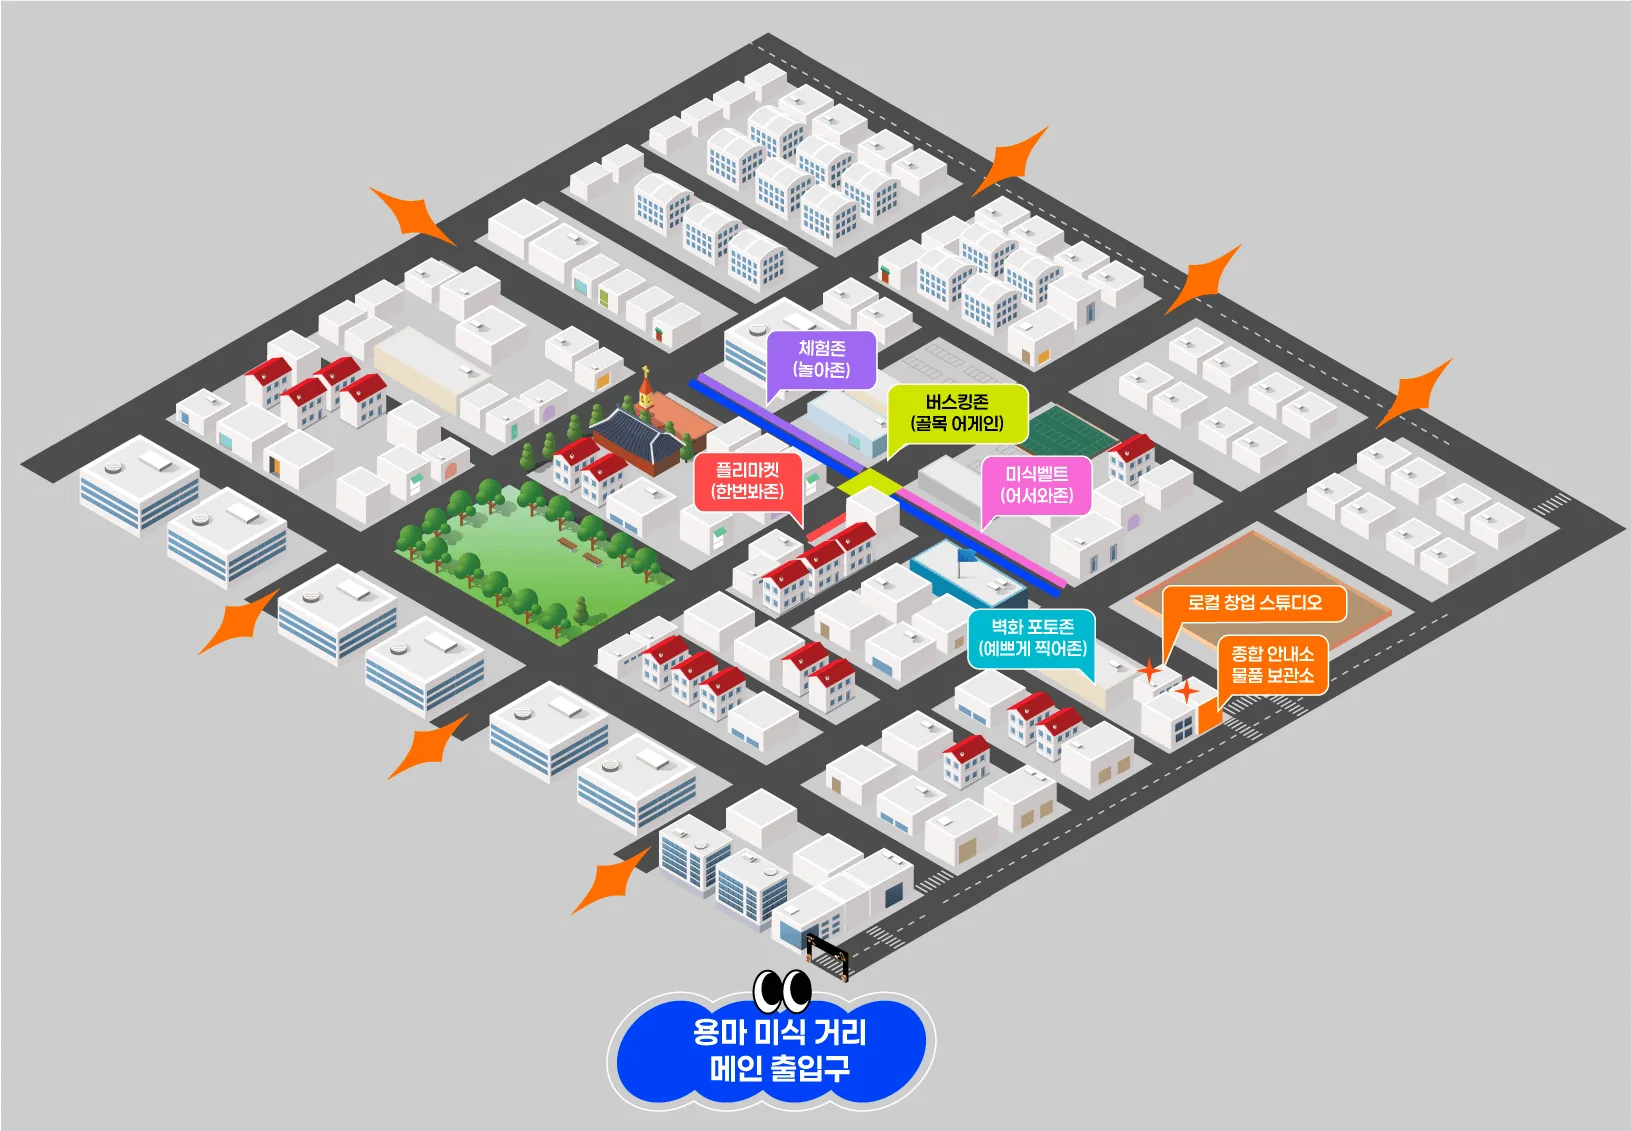
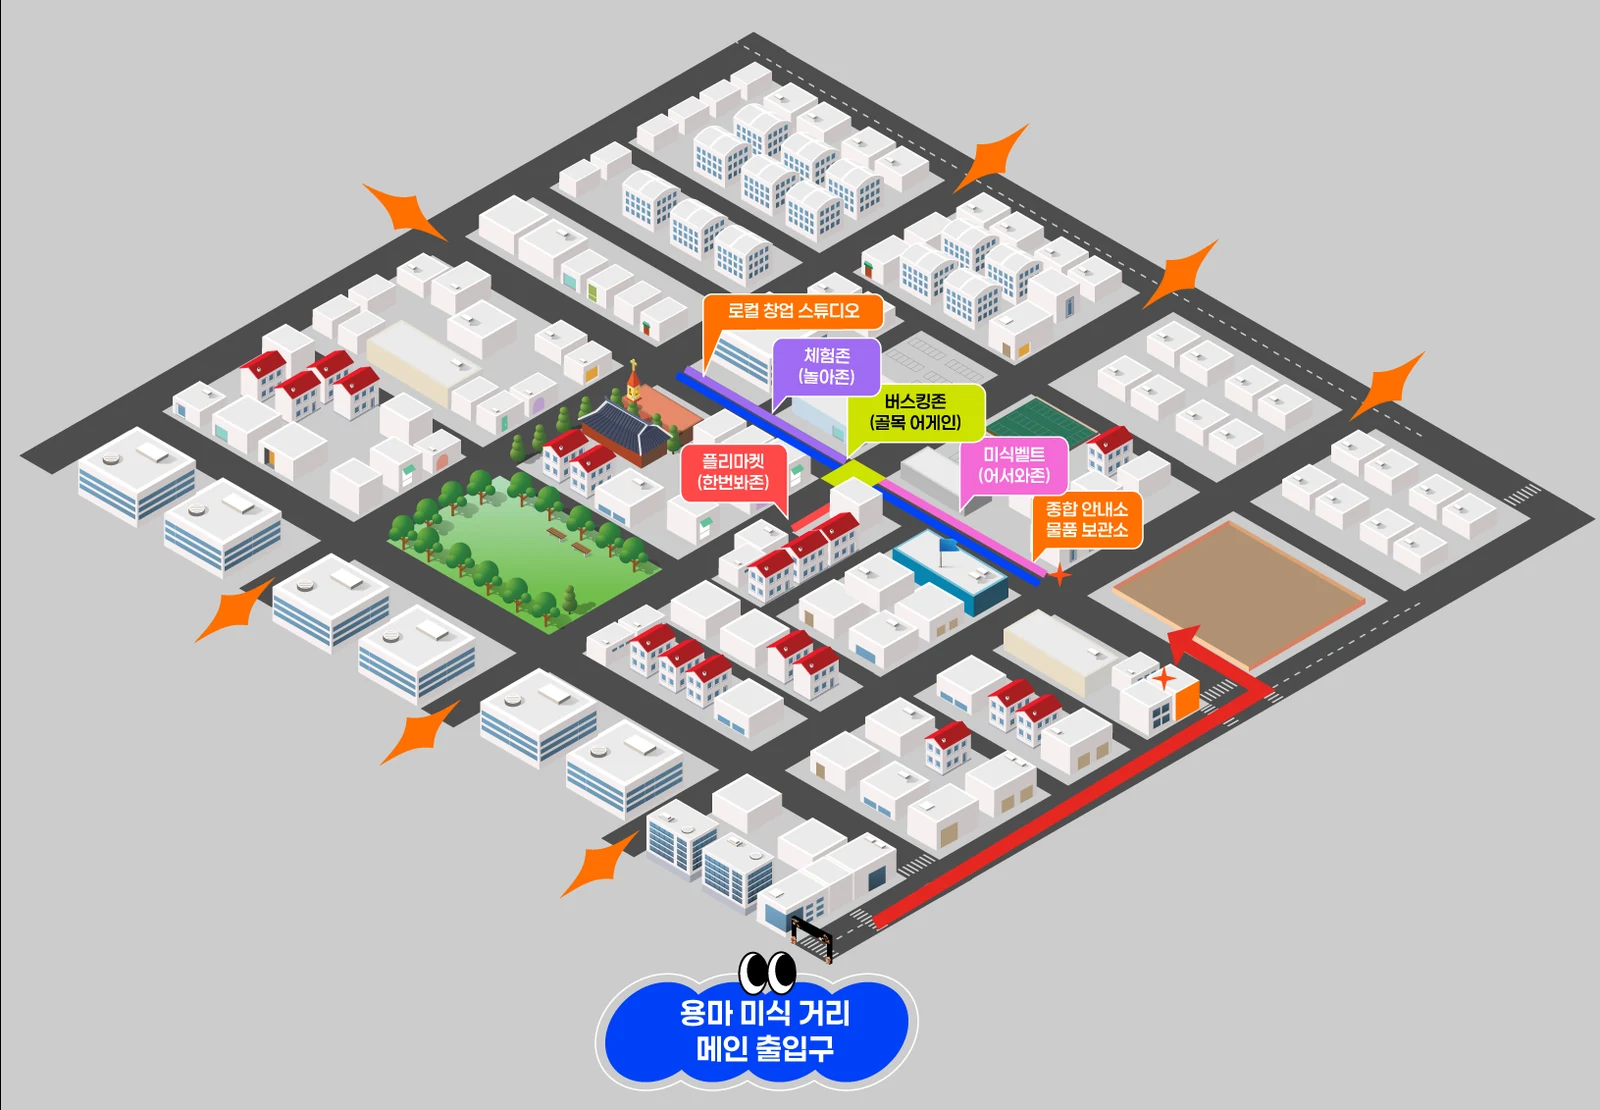
존 배치도를 수정본(사업구성배치도)으로 교체
- assets/img/map-zones.webp 를 새 배치도로 덮어씀 (1600x1110, webp q88)
- 예전 지도는 assets/img/_backup/ 에 날짜를 붙여 보관
- zones.html·index.html 의 img 에 ?v=20261004 를 붙여
  브라우저가 캐시된 옛 지도를 계속 보여 주지 않게 함

Changed region(s): [[0.4375, 0.245, 0.8438, 0.7351], [0.5312, 0.7658, 0.625, 0.8577], [0.625, 0.7351, 0.6562, 0.7658]]

diff --git a/index.html b/index.html
@@ -278,7 +278,8 @@
     </div>
 
     <figure class="figure reveal mt-3" style="margin-bottom:40px">
-      <img src="assets/img/map-zones.webp" alt="용마미식거리 6개 존 배치도 — 복합게이트, 어서와존, 골목어게인, 포토존, 놀아존, 로컬창업 스튜디오 위치" loading="lazy">
+      <!-- ?v= 는 브라우저가 예전 지도를 계속 보여 주지 않게 하려는 표시. 지도를 바꿀 때 날짜도 같이 올린다. -->
+      <img src="assets/img/map-zones.webp?v=20261004" alt="용마미식거리 6개 존 배치도 — 복합게이트, 어서와존, 골목어게인, 포토존, 놀아존, 로컬창업 스튜디오 위치" loading="lazy">
       <figcaption>용마미식거리 존 배치도 · 메인 출입구는 포남동 먹거리촌 방면</figcaption>
     </figure>
 

diff --git a/zones.html b/zones.html
@@ -35,7 +35,8 @@
 <section class="section" style="padding-bottom:0">
   <div class="wrap">
     <figure class="figure reveal">
-      <img src="assets/img/map-zones.webp" alt="6개 존 배치도" loading="lazy">
+      <!-- ?v= 는 브라우저가 예전 지도를 계속 보여 주지 않게 하려는 표시. 지도를 바꿀 때 날짜도 같이 올린다. -->
+      <img src="assets/img/map-zones.webp?v=20261004" alt="6개 존 배치도" loading="lazy">
       <figcaption>존 배치도 — 메인 출입구에서 시작해 골목을 따라 순환합니다</figcaption>
     </figure>
     <img class="mascot-tail" src="assets/img/mascot-duo.webp" alt="용마미식거리 캐릭터 용과 마" loading="lazy">
